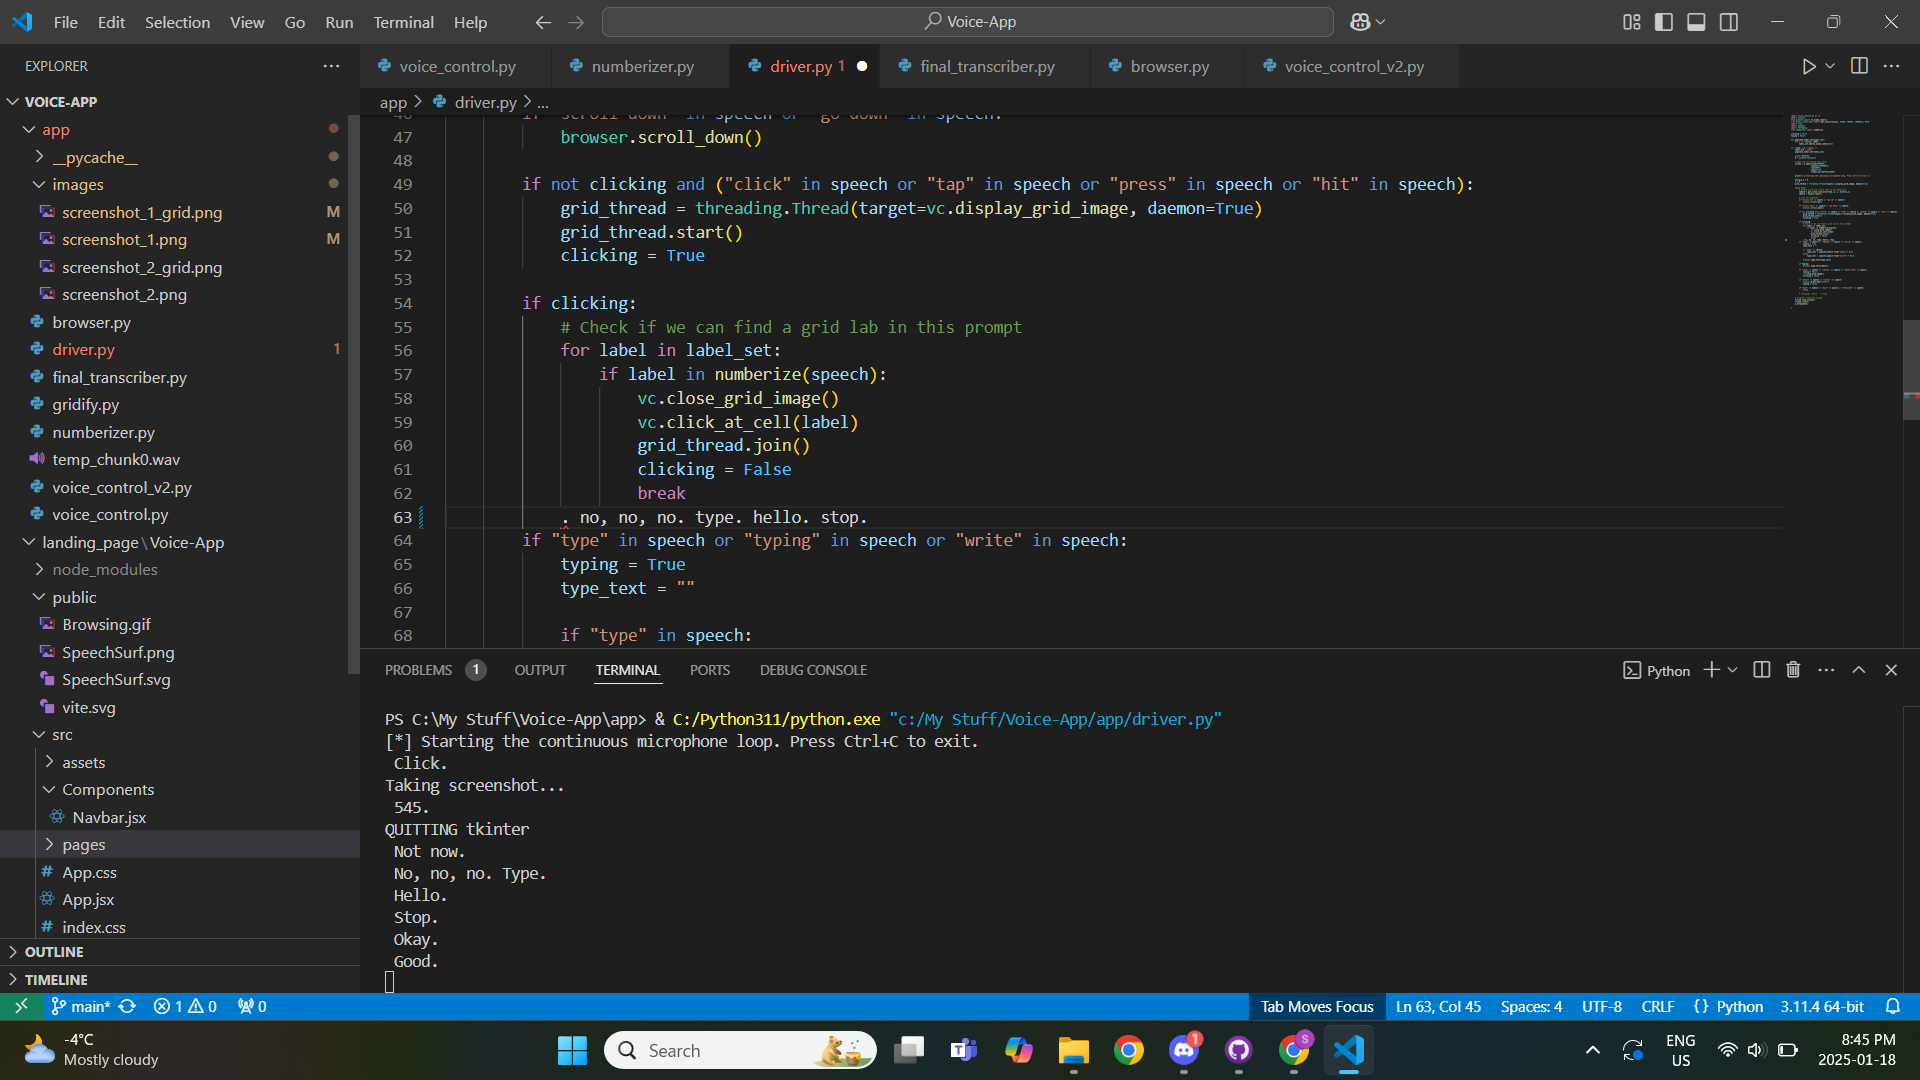
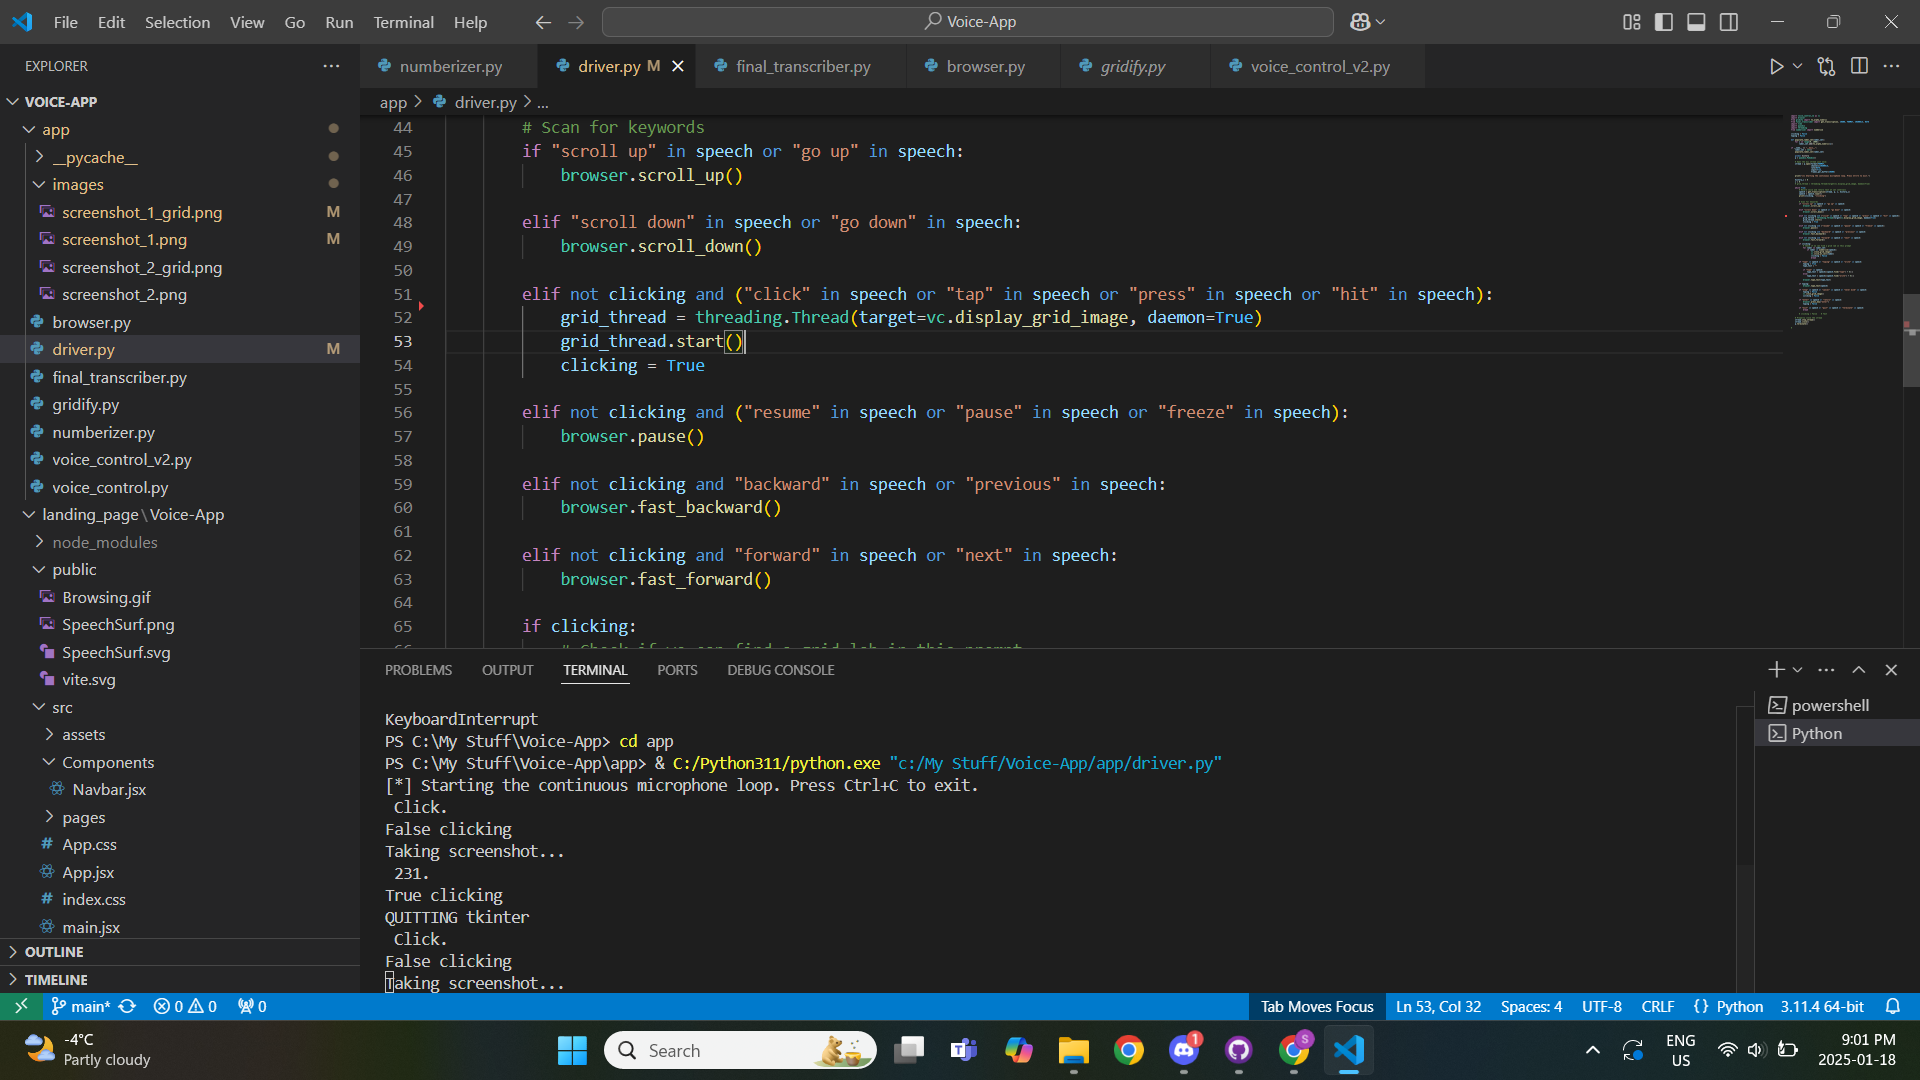
Parameter Adjustments

diff --git a/app/final_transcriber.py b/app/final_transcriber.py
@@ -61,7 +61,7 @@ def record_microphone(stream, p, filename="temp_audio.wav"):
     Then we write those last 2 seconds to a WAV file and return its filename.
     """
     # Read a single chunk from the stream
-    data = stream.read(int(RATE* 5), exception_on_overflow=False)
+    data = stream.read(int(RATE* 3), exception_on_overflow=False)
 
     # Now 'audio_buffer' has at most 2 seconds of audio (in CHUNK-sized frames).
 

diff --git a/app/driver.py b/app/driver.py
@@ -49,7 +49,6 @@ if __name__ == "__main__":
             browser.scroll_down()
         
         elif not clicking and ("click" in speech or "tap" in speech or "press" in speech or "hit" in speech):
-            browser.take_screenshot()
             grid_thread = threading.Thread(target=vc.display_grid_image, daemon=True)
             grid_thread.start()
             clicking = True

diff --git a/app/browser.py b/app/browser.py
@@ -4,7 +4,7 @@ import time
 import threading
 
 TYPING_INTERVAL = 0.01  # How many seconds between key presses
-SCROLL_AMOUNT = 30       # How many "clicks" of the scroll wheel
+SCROLL_AMOUNT = 150       # How many "clicks" of the scroll wheel
 
 # Global vars
 screenshot_num = 0
